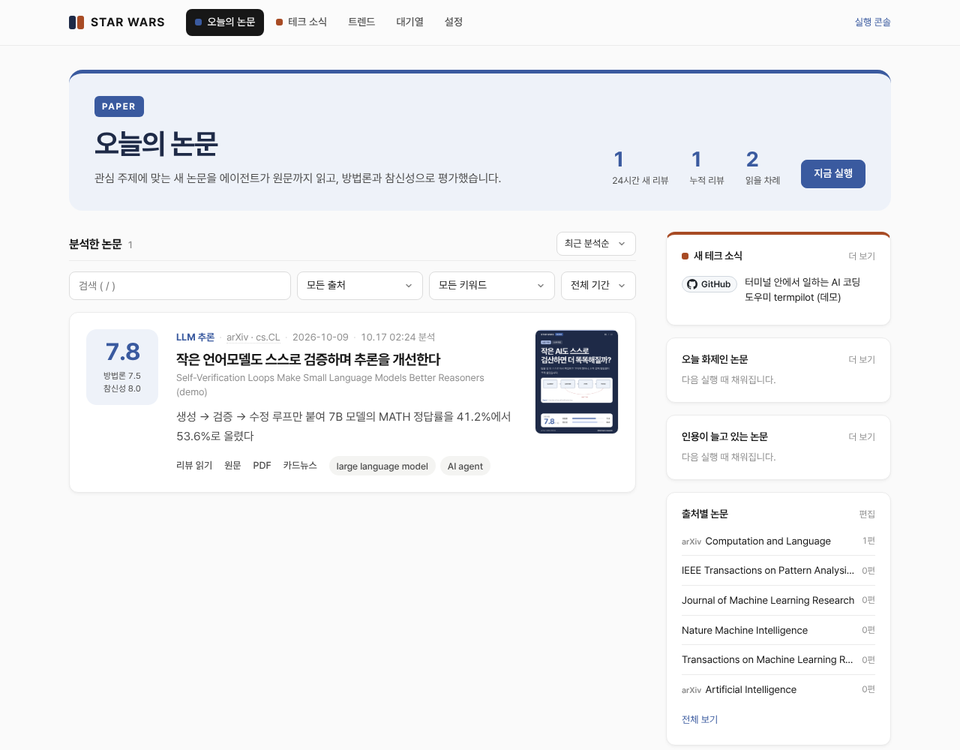
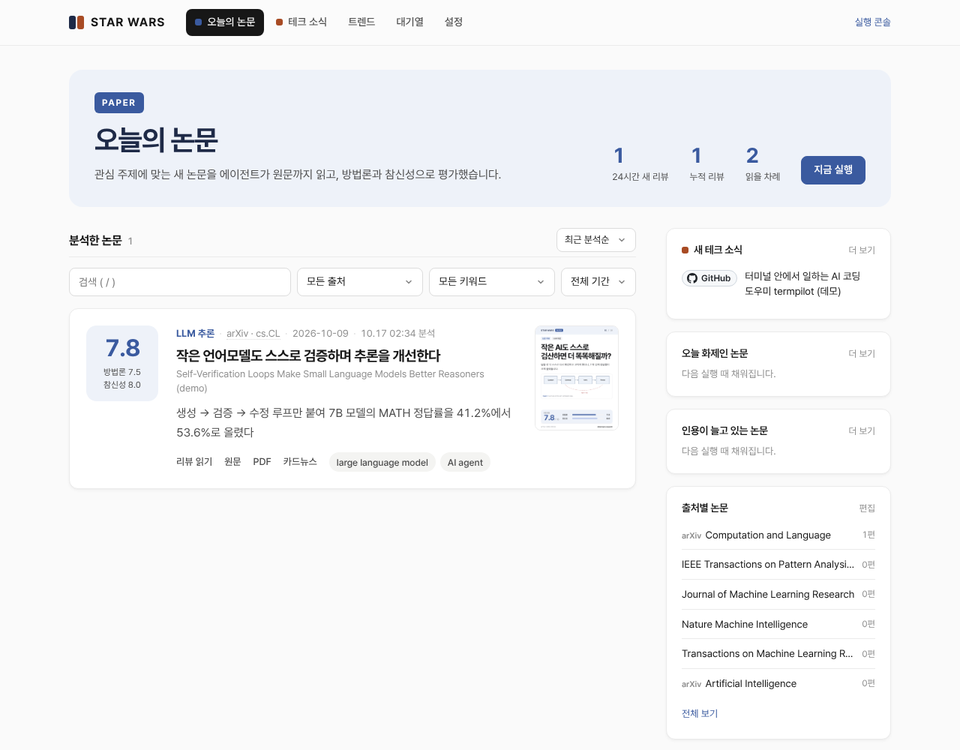
Cards: consistent white frame for cover and outro, no top colour line, headings break between phrases; dashboard: drop accent top borders
Claude-Session: https://claude.ai/code/session_012bj7GXVabYbePdzsSxXok8

diff --git a/paperagent/templates/cards/cards.html b/paperagent/templates/cards/cards.html
@@ -32,15 +32,17 @@ html, body { background: #000; }
 body { font-family: "Pretendard", system-ui, sans-serif; color: var(--ink); -webkit-font-smoothing: antialiased; word-break: keep-all;
        overflow-wrap: break-word; font-feature-settings: "tnum" 1; }
 h1, h2, h3, h4 { text-wrap: balance; }
+/* a heading breaks between phrases ("기술을 골라, / 쉽게 풀어 드립니다") before it breaks inside one */
+.ph { display: inline-block; }
 p, li, span, b { text-wrap: pretty; }
 
 /* Every size scales with --k, which the script lowers when a slide's text would overflow. */
 .slide { --k: 1; width: 1080px; height: 1350px; position: relative; overflow: hidden; background: #fff; display: flex; flex-direction: column; }
 
 /* the colour block on top of every content slide */
-/* the header: a light tint of the category colour with a thin accent line on top */
+/* the header: a light tint of the category colour */
 .band { flex: none; height: 108px; padding: 0 72px; background: var(--soft); color: var(--ink); display: flex; align-items: center;
-        justify-content: space-between; border-top: 8px solid var(--c); }
+        justify-content: space-between; }
 .brand { display: flex; align-items: center; gap: 18px; }
 .brand b { font-size: 27px; font-weight: 700; letter-spacing: .06em; color: var(--deep); }
 .brand span { font-size: 20px; font-weight: 700; letter-spacing: .14em; padding: 6px 13px; border-radius: 8px; background: var(--c); color: #fff; }
@@ -88,36 +90,27 @@ h2 { flex: none; margin-top: calc(22px * var(--k)); font-size: calc(76px * var(-
 .dots li::before { content: ""; position: absolute; left: .15em; top: calc(.5lh - 5px); width: 10px; height: 10px; border-radius: 3px; background: var(--c); }
 
 /* ---------- cover: the whole slide in the category colour ---------- */
-.cover { background: var(--deep); color: #fff; }
-.cover .band { background: transparent; border-top-color: var(--tint); }
-.cover .brand b, .cover .pg { color: #fff; }
-.cover .pg i { color: rgba(255,255,255,.55); }
+/* ---------- cover: the same frame as the other pages, a bigger headline ---------- */
 .cover .main { padding-top: calc(28px * var(--k)); }
 .chips { flex: none; display: flex; flex-wrap: wrap; gap: 12px; align-items: center; }
-.chip { font-size: calc(25px * var(--k)); font-weight: 700; padding: 9px 18px; border-radius: 10px; background: var(--tint); color: var(--deep); letter-spacing: .02em; }
-.chip.ghost { background: rgba(255,255,255,.1); color: rgba(255,255,255,.9); font-weight: 600; letter-spacing: 0; border: 1.5px solid rgba(255,255,255,.22); }
-.cover h1 em { font-style: normal; color: var(--tint); }
+.chip { font-size: calc(25px * var(--k)); font-weight: 700; padding: 9px 18px; border-radius: 10px; background: var(--soft); color: var(--c); letter-spacing: .02em; }
+.chip.ghost { background: var(--well); color: var(--body); font-weight: 600; letter-spacing: 0; }
 .cover h1 { flex: none; margin-top: calc(34px * var(--k)); font-size: calc(102px * var(--k)); line-height: 1.12; font-weight: 700; letter-spacing: -0.05em; }
-.cover .lead { color: rgba(255,255,255,.82); font-size: calc(35px * var(--k)); margin-top: calc(26px * var(--k)); }
-.cover .figure { border: 0; }
+.cover .lead { color: var(--body); font-size: calc(35px * var(--k)); margin-top: calc(26px * var(--k)); }
+.cover .figure { border: 2px solid var(--line); }
 .stat { flex: none; margin-top: auto; padding-top: calc(36px * var(--k)); }
-.stat-card { background: #fff; color: var(--ink); border-radius: 28px; padding: calc(28px * var(--k)) 36px; display: flex; align-items: center; gap: 44px; }
+.stat-card { background: var(--soft); color: var(--ink); border-radius: 28px; padding: calc(28px * var(--k)) 36px; display: flex; align-items: center; gap: 44px; }
 .stat-card .big { display: flex; flex-direction: column; }
 .stat-card .big small { font-size: 21px; color: var(--mute); font-weight: 600; }
 .stat-card .big b { font-size: calc(96px * var(--k)); line-height: 1; font-weight: 700; letter-spacing: -0.05em; color: var(--c); }
 .stat-card .big b span { font-size: 30px; color: var(--mute); letter-spacing: 0; font-weight: 500; margin-left: 6px; }
 .stat-card .parts { flex: 1; display: flex; flex-direction: column; gap: 18px; }
+.stat-card .track { background: #fff; }
 .tiles-row { flex: 1; display: grid; grid-auto-flow: column; grid-auto-columns: minmax(0, 1fr); }
-.tiles-row > div { padding: 0 24px; border-left: 2px solid var(--line); }
+.tiles-row > div { padding: 0 24px; border-left: 2px solid rgba(0,0,0,.08); }
 .tiles-row > div:first-child { padding-left: 0; border-left: 0; }
 .tiles-row b { display: block; font-size: calc(56px * var(--k)); font-weight: 700; letter-spacing: -0.04em; color: var(--c); line-height: 1.05; white-space: nowrap; }
 .tiles-row span { display: block; margin-top: 6px; font-size: 21px; color: var(--mute); font-weight: 600; }
-.cover .foot { border-top-color: rgba(255,255,255,.25); color: rgba(255,255,255,.85); }
-.cover .foot b { color: #fff; }
-.cover .foot b::before { color: #fff; }
-.cover .bottom { border-top-color: rgba(255,255,255,.25); color: rgba(255,255,255,.75); }
-.cover .bottom b { color: #fff; }
-.cover .star { color: #fff; }
 
 /* score bars */
 .bar { display: grid; grid-template-columns: 110px 1fr 60px; align-items: center; gap: 18px; font-size: calc(26px * var(--k)); }
@@ -200,9 +193,9 @@ h2 { flex: none; margin-top: calc(22px * var(--k)); font-size: calc(76px * var(-
 .pc li { font-size: calc(29px * var(--k)); line-height: 1.5; }
 .pc .good .dots li::before { background: var(--good); }
 .pc .bad .dots li::before { background: var(--bad); }
-.who { flex: none; margin-top: calc(22px * var(--k)); padding: calc(22px * var(--k)) 28px; border-radius: 20px; background: var(--deep); color: #fff;
+.who { flex: none; margin-top: calc(22px * var(--k)); padding: calc(22px * var(--k)) 28px; border-radius: 20px; background: var(--soft); color: var(--ink);
        display: grid; grid-template-columns: max-content minmax(0, 1fr); column-gap: 18px; font-size: calc(28px * var(--k)); line-height: 1.5; }
-.who b { color: var(--deep); background: var(--tint); padding: 0 10px; border-radius: 6px; align-self: start; }
+.who b { color: var(--c); }
 
 /* explained words: a raised * in the text, the meaning at the bottom of the slide */
 .star { font-size: .6em; vertical-align: .6em; line-height: 0; margin-left: 1px; color: var(--c); font-weight: 700; }
@@ -212,19 +205,15 @@ h2 { flex: none; margin-top: calc(22px * var(--k)); font-size: calc(76px * var(-
 .foot b::before { content: "* "; color: var(--c); }
 
 /* ---------- outro ---------- */
-.outro { background: var(--deep); color: #fff; }
-.outro .band { background: transparent; border-top-color: var(--tint); }
-.outro .brand b, .outro .pg { color: #fff; }
-.outro .acro b { color: var(--tint); }
+.outro { background: #fff; color: var(--ink); }
+.outro .acro b { color: var(--c); }
 .acro { margin: 96px 72px 0; display: grid; grid-template-columns: 1fr 1fr; gap: 4px 40px; }
-.acro div { font-size: 62px; font-weight: 600; letter-spacing: -0.03em; line-height: 1.26; color: rgba(255,255,255,.4); white-space: nowrap; }
+.acro div { font-size: 62px; font-weight: 600; letter-spacing: -0.03em; line-height: 1.26; color: #c4c5c9; white-space: nowrap; }
 .acro b { color: #fff; font-weight: 700; }
 .outro .claim { margin: 88px 72px 0; font-size: 54px; line-height: 1.32; font-weight: 700; letter-spacing: -0.035em; }
-.outro .cta { margin: 30px 72px 0; font-size: 31px; line-height: 1.6; color: rgba(255,255,255,.72); }
-.outro .cta b { color: #fff; font-weight: 600; }
-.outro .cta em { font-style: normal; color: var(--deep); background: var(--tint); padding: 1px 10px; border-radius: 6px; font-weight: 700; }
-.outro .bottom { border-top-color: rgba(255,255,255,.14); color: rgba(255,255,255,.55); }
-.outro .bottom b { color: #fff; }
+.outro .cta { margin: 30px 72px 0; font-size: 31px; line-height: 1.6; color: var(--body); }
+.outro .cta b { color: var(--ink); font-weight: 600; }
+.outro .cta em { font-style: normal; color: var(--c); background: var(--soft); padding: 1px 10px; border-radius: 6px; font-weight: 700; }
 
 /* while measuring, figures are out and the notes sit right under the text */
 .measuring .figure { display: none; }
@@ -253,7 +242,7 @@ h2 { flex: none; margin-top: calc(22px * var(--k)); font-size: calc(76px * var(-
   {{ band(n) }}
   <div class="main">
     <div class="chips"><span class="chip">{{ theme.name }}</span>{% if cover.topic %}<span class="chip ghost">{{ cover.topic }}</span>{% endif %}</div>
-    <h1>{{ cover.headline | t }}</h1>
+    <h1>{{ cover.headline | th }}</h1>
     {% if cover.sub %}<p class="lead">{{ cover.sub | t }}</p>{% endif %}
     {{ figure(cover.image) }}
     <div class="stat">
@@ -276,7 +265,7 @@ h2 { flex: none; margin-top: calc(22px * var(--k)); font-size: calc(76px * var(-
   {{ band(n) }}
   <div class="main">
     {{ label(n, s.label) }}
-    <h2>{{ s.headline | t }}</h2>
+    <h2>{{ s.headline | th }}</h2>
     <ul class="points">{% for x in s.points[:3] %}<li><b>{{ '%02d' % loop.index }}</b><span>{{ x | t }}</span></li>{% endfor %}</ul>
     {% if s.figure %}{{ figure(s.figure) }}{% elif s.note %}<div class="note-box"><h4>{{ s.note_title }}</h4><p>{{ s.note | t }}</p></div>{% endif %}
     {{ foot(s.notes) }}
@@ -289,7 +278,7 @@ h2 { flex: none; margin-top: calc(22px * var(--k)); font-size: calc(76px * var(-
   {{ band(n) }}
   <div class="main">
     {{ label(n, s.label) }}
-    <h2>{{ s.headline | t }}</h2>
+    <h2>{{ s.headline | th }}</h2>
     {% if s.body %}<p class="lead">{{ s.body | t }}</p>{% endif %}
     {{ figure(s.figure, s.tag, window=True) }}
     {{ foot(s.notes) }}
@@ -302,8 +291,8 @@ h2 { flex: none; margin-top: calc(22px * var(--k)); font-size: calc(76px * var(-
   {{ band(n) }}
   <div class="main">
     {{ label(n, s.label) }}
-    <h2>{{ s.headline | t }}</h2>
-    <ol class="steps">{% for x in s.steps[:4] %}<li><span class="n">{{ loop.index }}</span><div><h3>{{ x.title | t }}</h3>{% if x.detail %}<p>{{ x.detail | t }}</p>{% endif %}{% if x.code %}<code>{{ x.code }}</code>{% endif %}</div></li>{% endfor %}</ol>
+    <h2>{{ s.headline | th }}</h2>
+    <ol class="steps">{% for x in s.steps[:4] %}<li><span class="n">{{ loop.index }}</span><div><h3>{{ x.title | th }}</h3>{% if x.detail %}<p>{{ x.detail | t }}</p>{% endif %}{% if x.code %}<code>{{ x.code }}</code>{% endif %}</div></li>{% endfor %}</ol>
     {% if s.link %}<div class="note-box"><h4>바로 가기</h4><p>{{ s.link }}</p></div>{% endif %}
     {{ foot(s.notes) }}
   </div>
@@ -315,7 +304,7 @@ h2 { flex: none; margin-top: calc(22px * var(--k)); font-size: calc(76px * var(-
   {{ band(n) }}
   <div class="main">
     {{ label(n, s.label) }}
-    <h2>{{ s.headline | t }}</h2>
+    <h2>{{ s.headline | th }}</h2>
     <div class="rows">{% for r in s.rows %}<div class="row"><div class="k">{{ r.label | t }}</div><div class="v"><b>{{ r.value | t }}</b></div></div>{% endfor %}</div>
     {% if s.note_list %}<div class="note-box"><h4>{{ s.note_title }}</h4><ul class="dots">{% for x in s.note_list %}<li>{{ x | t }}</li>{% endfor %}</ul></div>{% endif %}
     {{ foot(s.notes) }}
@@ -328,7 +317,7 @@ h2 { flex: none; margin-top: calc(22px * var(--k)); font-size: calc(76px * var(-
   {{ band(n) }}
   <div class="main">
     {{ label(n, s.label) }}
-    <h2>{{ s.headline | t }}</h2>
+    <h2>{{ s.headline | th }}</h2>
     {% if s.highlight %}<div class="hl"><b>{{ s.highlight }}</b>{% if s.highlight_label %}<span>{{ s.highlight_label | t }}</span>{% endif %}</div>{% endif %}
     {% if s.bars %}<div class="hbars">{% for b in s.bars %}<div class="hbar {{ 'on' if b.highlight }}"><div class="top"><span>{{ b.label | t }}</span><b>{{ b.display }}</b></div><div class="track"><div class="fill" style="width: {{ b.pct }}%"></div></div></div>{% endfor %}</div>{% endif %}
     {% if s.tiles %}<div class="tiles">{% for t in s.tiles[:4] %}<div><b>{{ t.value }}</b><span>{{ t.label | t }}</span></div>{% endfor %}</div>{% endif %}
@@ -344,8 +333,8 @@ h2 { flex: none; margin-top: calc(22px * var(--k)); font-size: calc(76px * var(-
   {{ band(n) }}
   <div class="main">
     {{ label(n, s.label) }}
-    <h2>{{ s.headline | t }}</h2>
-    <div class="cards3">{% for x in s['items'] %}<div><i>{{ '%02d' % loop.index }}</i><div><h3>{{ x.title | t }}</h3><p>{{ x.detail | t }}</p></div></div>{% endfor %}</div>
+    <h2>{{ s.headline | th }}</h2>
+    <div class="cards3">{% for x in s['items'] %}<div><i>{{ '%02d' % loop.index }}</i><div><h3>{{ x.title | th }}</h3><p>{{ x.detail | t }}</p></div></div>{% endfor %}</div>
     {{ foot(s.notes) }}
   </div>
   {{ bottom() }}
@@ -356,7 +345,7 @@ h2 { flex: none; margin-top: calc(22px * var(--k)); font-size: calc(76px * var(-
   {{ band(n) }}
   <div class="main">
     {{ label(n, s.label) }}
-    <h2>{{ s.headline | t }}</h2>
+    <h2>{{ s.headline | th }}</h2>
     <div class="score-box">
       <div class="big"><small>종합 평점</small><b>{{ review.overall_score }}<span>/ 10</span></b></div>
       <div class="parts">{{ bar('방법론', review.methodology_score) }}{{ bar('참신성', review.novelty_score, 'alt') }}</div>
@@ -377,7 +366,7 @@ h2 { flex: none; margin-top: calc(22px * var(--k)); font-size: calc(76px * var(-
   {{ band(n) }}
   <div class="main">
     <div class="label"><i>SUM</i>정리</div>
-    <h2>{{ s.headline | t }}</h2>
+    <h2>{{ s.headline | th }}</h2>
     <div class="rows">
       {% for r in s.rows %}
       <div class="row"><div class="k">{{ r.label | t }}</div><div class="v"><b>{{ r.value | t }}</b>{% if r.value_sub %}<span>{{ r.value_sub | t }}</span>{% endif %}</div></div>
@@ -395,7 +384,7 @@ h2 { flex: none; margin-top: calc(22px * var(--k)); font-size: calc(76px * var(-
     {% for initial, rest in acronym[:4] %}<div style="grid-column: 1; grid-row: {{ loop.index }}"><b>{{ initial }}</b>{{ rest }}</div>{% endfor %}
     {% for initial, rest in acronym[4:] %}<div style="grid-column: 2; grid-row: {{ loop.index }}"><b>{{ initial }}</b>{{ rest }}</div>{% endfor %}
   </div>
-  <p class="claim">{{ theme.claim }}</p>
+  <p class="claim">{{ theme.claim | th }}</p>
   <p class="cta">원문 링크와 전체 리뷰는 <b>프로필 링크</b>에서 볼 수 있어요.<br>논문은 <em>PAPER</em>, 테크 소식은 <em>TECH</em>로 올라옵니다. <b>{{ handle }}</b></p>
   <div style="flex: 1"></div>
   {{ bottom() }}

diff --git a/paperagent/static/style.css b/paperagent/static/style.css
@@ -587,10 +587,10 @@ body.console-open { overflow: hidden; }
 .sbadge .ico.geeknews { background: #3b6fb6; }
 .sbadge .ico.hf { background: #ffd21e; color: #3b2a00; border-radius: 50%; }
 @media (prefers-color-scheme: dark) { .sbadge { color: #e6edf3; background: #161b22; border-color: #30363d; } }
-/* page hero: a tinted panel with an accent line - the category colour stays an accent */
+/* page hero: a tinted panel - the category colour stays an accent */
 .hero { margin-top: 32px; margin-bottom: 28px; padding: 30px 34px; border-radius: 18px; color: var(--ink); background: var(--paper-soft);
-        border-top: 5px solid var(--paper); display: grid; grid-template-columns: minmax(0, 1fr) auto; gap: 24px 40px; align-items: end; }
-.hero.tech { background: var(--tech-soft); border-top-color: var(--tech); }
+        display: grid; grid-template-columns: minmax(0, 1fr) auto; gap: 24px 40px; align-items: end; }
+.hero.tech { background: var(--tech-soft); }
 .hero-tag { display: inline-block; font-size: 12px; font-weight: 700; letter-spacing: .14em; padding: 4px 10px; border-radius: 6px; background: var(--paper); color: #fff; }
 .hero.tech .hero-tag { background: var(--tech); }
 .hero h1 { margin-top: 14px; font-size: clamp(28px, 3.6vw, 38px); font-weight: 700; letter-spacing: -0.04em; line-height: 1.18; color: var(--paper-deep); }
@@ -620,7 +620,6 @@ body.console-open { overflow: hidden; }
 
 /* ---------- TECH ---------- */
 .vid-badge { font-size: 12px; font-weight: 700; color: var(--tech); }
-.side-tech { border-top: 4px solid var(--tech); }
 .side-tech .mini { grid-template-columns: auto minmax(0, 1fr); }
 .side-h h3 { display: inline-flex; align-items: center; gap: 7px; }
 .tech-mini { grid-template-columns: 18px minmax(0, 1fr); align-items: start; }
@@ -635,7 +634,6 @@ body.console-open { overflow: hidden; }
 .check-grid { display: grid; grid-template-columns: repeat(auto-fit, minmax(200px, 1fr)); gap: 8px; margin: 12px 0 4px; }
 .check { display: flex; align-items: center; gap: 8px; padding: 9px 12px; border: 1px solid var(--line); border-radius: 10px; font-size: 13.5px; cursor: pointer; }
 .check:has(input:checked) { border-color: var(--tech); background: var(--tech-soft); }
-.tech-panel { border-top: 4px solid var(--tech); }
 .panel-h h2 { display: inline-flex; align-items: center; gap: 8px; }
 .dhead.tech h1, .summary-box.tech .lead { letter-spacing: -0.035em; }
 .summary-box.tech { background: var(--tech-soft); }
@@ -648,15 +646,12 @@ body.console-open { overflow: hidden; }
 .sowhat-list p { margin-top: 4px; font-size: 15px; }
 pre.cmd { margin: 8px 0 0; padding: 10px 14px; border-radius: 8px; background: #16171b; color: #f2f2f2; overflow-x: auto; }
 pre.cmd code { background: none; padding: 0; color: inherit; white-space: pre; font-size: 13px; }
-.numbers-card { border-top: 4px solid var(--tech); }
 .ntiles { display: grid; grid-template-columns: 1fr 1fr; gap: 10px; margin: 14px 0 16px; }
 .ntiles > div { padding: 12px 14px; border-radius: 12px; background: var(--tech-soft); }
 .ntiles b { display: block; font-size: 22px; font-weight: 700; letter-spacing: -0.03em; color: var(--tech); }
 .ntiles span { font-size: 12px; color: var(--body); }
 
 /* ---------- card news panel ---------- */
-.cards-panel { border-top: 4px solid var(--paper); }
-.cards-panel.tech { border-top-color: var(--tech); }
 .cards-panel h3 .count { margin-left: 4px; font-size: 12.5px; font-weight: 500; color: var(--mute); }
 .small.strong { font-weight: 700; color: var(--paper); }
 .cards-panel.tech .small.strong { color: var(--tech); }

diff --git a/paperagent/cardnews.py b/paperagent/cardnews.py
@@ -31,17 +31,14 @@ log = logging.getLogger(__name__)
 PKG_DIR = Path(__file__).resolve().parent
 FONT_DIR = PKG_DIR / "static" / "fonts"
 
-# Colours follow a 60-30-10 split: neutral white/ink for most of a slide, a
-# light tint of the category colour for panels, and the category colour itself
-# only for small accents (labels, key numbers, bars). Every text/background
-# pair meets WCAG AA (4.5:1); the accents are muted, not neon.
+# White slides; a light tint of the category colour for the header and panels,
+# the category colour itself only for small accents. Every text pair meets
+# WCAG AA contrast.
 THEMES = {
     "paper": {"key": "paper", "color": "#3A5A9F", "deep": "#1E2A47", "soft": "#EEF2F9", "tint": "#AEBFE8", "label": "PAPER",
-              "name": "논문 리뷰", "kicker": "오늘의 논문",
-              "claim": "읽을 가치가 있는 논문만 골라 읽고, 평가합니다."},
+              "name": "논문 리뷰", "claim": "읽을 가치가 있는 논문만 골라 읽고, 평가합니다."},
     "tech": {"key": "tech", "color": "#A84B24", "deep": "#2A221D", "soft": "#FAF0E9", "tint": "#F0A983", "label": "TECH",
-             "name": "테크 트렌드", "kicker": "오늘의 테크",
-             "claim": "지금 개발자들이 주목하는 기술을 골라, 쉽게 풀어 드립니다."},
+             "name": "테크 트렌드", "claim": "지금 개발자들이 주목하는 기술을 골라, 쉽게 풀어 드립니다."},
 }
 
 TECH_BASE_HASHTAGS = config.CARD_TECH_BASE_HASHTAGS
@@ -55,13 +52,34 @@ def _one_line(s) -> str:
     return re.sub(r"\s*(?:\\n|\n)+\s*", " ", str(s or "")).strip()
 
 
+def _star(html: str) -> str:
+    return re.sub(r"(?<=\S)\*", '<sup class="star">*</sup>', html)
+
+
 def _text(s):
     """Card text: escaped, on one flowing line, and the * after an explained word raised."""
-    html = str(escape(_one_line(s)))
-    return Markup(re.sub(r"(?<=\S)\*", '<sup class="star">*</sup>', html))
+    return Markup(_star(str(escape(_one_line(s)))))
+
+
+# Where a heading may break: after a comma or other clause mark, or where the
+# writer put a line break. Each phrase is kept together when it fits, so
+# "기술을 골라, 쉽게 풀어 드립니다" breaks after "골라," and not inside a phrase.
+_PHRASE_END = re.compile(r"(?<=[,·:;?!…])\s+|(?<=[가-힣a-zA-Z)][.])\s+|\s*(?:\\n|\n)+\s*")
+
+
+def phrases(s) -> list[str]:
+    return [p for p in _PHRASE_END.split(str(s or "").strip()) if p.strip()]
+
+
+def _heading(s):
+    parts = phrases(s)
+    if len(parts) < 2:
+        return _text(s)
+    return Markup(" ".join(f'<span class="ph">{_star(str(escape(p)))}</span>' for p in parts))
 
 
 _env.filters["t"] = _text
+_env.filters["th"] = _heading
 
 
 def _source_ref(paper):
@@ -450,7 +468,7 @@ def tech_slides(item, review, media, tmp: Path):
     if show:
         s = {"kind": "media", "label": "직접 보기 · 데모 영상" if poster else "직접 보기",
              "headline": demo.get("headline") or review.get("title_ko"), "body": demo.get("body"), "figure": show}
-        s["video"] = {"src": clip if poster else show["path"], "pad": "#0f1013"}
+        s["video"] = {"src": clip if poster else show["path"], "pad": "#16171b"}
         slides.append(s)
     if review.get("how"):
         slides.append({"kind": "steps", "label": "어떻게 작동하나요", "headline": "핵심만 짚어 보면", "steps": review["how"][:4]})

diff --git a/paperagent/agent.py b/paperagent/agent.py
@@ -544,7 +544,7 @@ Audience: people with no AI or engineering background. Write so they can follow 
 - When a technical word is unavoidable (a benchmark, method or metric name), either explain it in the same sentence or put * right after it (e.g. "MATH*") and define it in `terms`. Use at most 4 terms.
 - Say what numbers mean ("정답률 41.2% → 53.6%, 100문제 중 약 12문제를 더 맞힘") rather than leaving bare figures, but never change or invent a number.
 - Short, clear sentences; natural Korean; no hype.
-- The cover is a question the reader wants answered; the slides answer it. Never insert line breaks - the layout wraps text itself.
+- The cover is a question the reader wants answered; the slides answer it. Never insert line breaks: the layout breaks a heading where it has a comma, so put a comma where a reader would naturally pause (e.g. "기술을 골라, 쉽게 풀어 드립니다").
 - Weaknesses and limits are constructive: "~에 대한 보완이 필요해 보입니다", "~는 다소 미흡할 수 있습니다", "~에 대한 추가 연구가 필요할 수 있습니다".
 
 Use only facts from the review. Card copy is rendered large, so respect every length limit - shorten wording, never cut a number.
@@ -690,7 +690,8 @@ Audience: people with no engineering background who are curious about technology
 - Use only facts in the material and the numbers given. Never invent features, benchmarks, prices, dates or commands. If something is unknown, leave it out.
 - Say what numbers mean (e.g. "하루 만에 GitHub 스타 2,300개 - 그만큼 많은 개발자가 관심을 표시했다는 뜻").
 - Caveats are constructive ("~는 아직 초기 단계라 보완이 필요해 보입니다").
-- Short, clear sentences; natural Korean; no hype. Respect every length limit; never insert line breaks."""
+- Short, clear sentences; natural Korean; no hype. Respect every length limit; never insert line breaks - headings break where
+  they have a comma, so put a comma where a reader would naturally pause."""
 
 
 def write_tech(item: dict, context: dict, meter: CostMeter | None = None) -> dict:

diff --git a/tests/test_pdfs_and_cards.py b/tests/test_pdfs_and_cards.py
@@ -85,7 +85,12 @@ def test_card_copy_flows_without_forced_line_breaks(sample_pdf, tmp_path):
     review = copy.deepcopy(demo.SAMPLE_REVIEW)
     review["card"]["problem"]["headline"] = "작은 AI는 왜\\n수학 풀이에\n약할까요?"
     html = cardnews.build_html({"uid": "arxiv:1", "title": "T", "url": "https://x"}, review, figs)
-    assert "<br>" not in html.split('class="slide outro"')[0] and "작은 AI는 왜 수학 풀이에 약할까요?" in html
+    assert "<br>" not in html.split('class="slide outro"')[0]
+    # a heading breaks between phrases (where the writer broke it, or after a comma), never inside one
+    assert '<span class="ph">작은 AI는 왜</span> <span class="ph">수학 풀이에</span> <span class="ph">약할까요?</span>' in html
+    assert [str(x) for x in cardnews.phrases("지금 개발자들이 주목하는 기술을 골라, 쉽게 풀어 드립니다.")] == \
+        ["지금 개발자들이 주목하는 기술을 골라,", "쉽게 풀어 드립니다."]
+    assert cardnews.phrases("정답률 41.2%에서 53.6%로") == ["정답률 41.2%에서 53.6%로"]  # no break inside numbers
     assert "그래서 나랑 무슨 상관?" in html and 'class="hbar on"' in html  # so-what card, bars to scale
     assert 'class="slide cover"' in html and "page1" not in html  # no first-page screenshot as a picture
 
